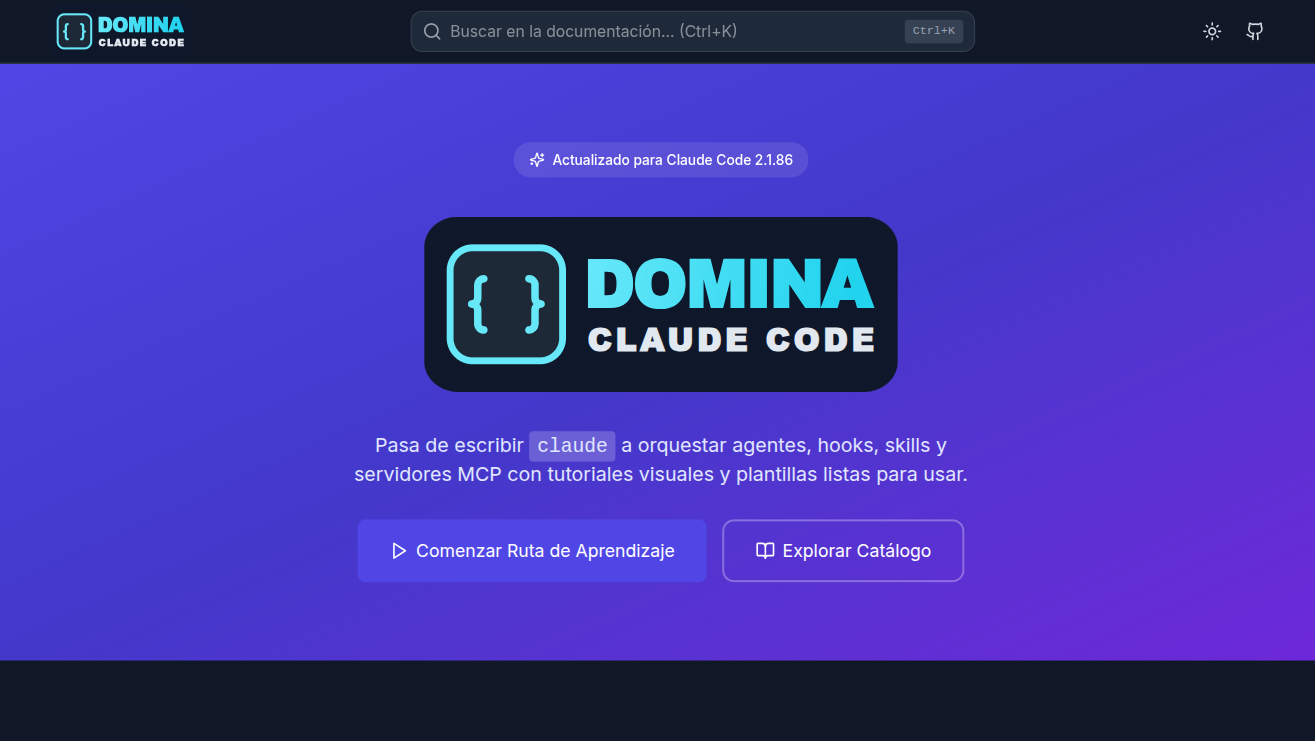
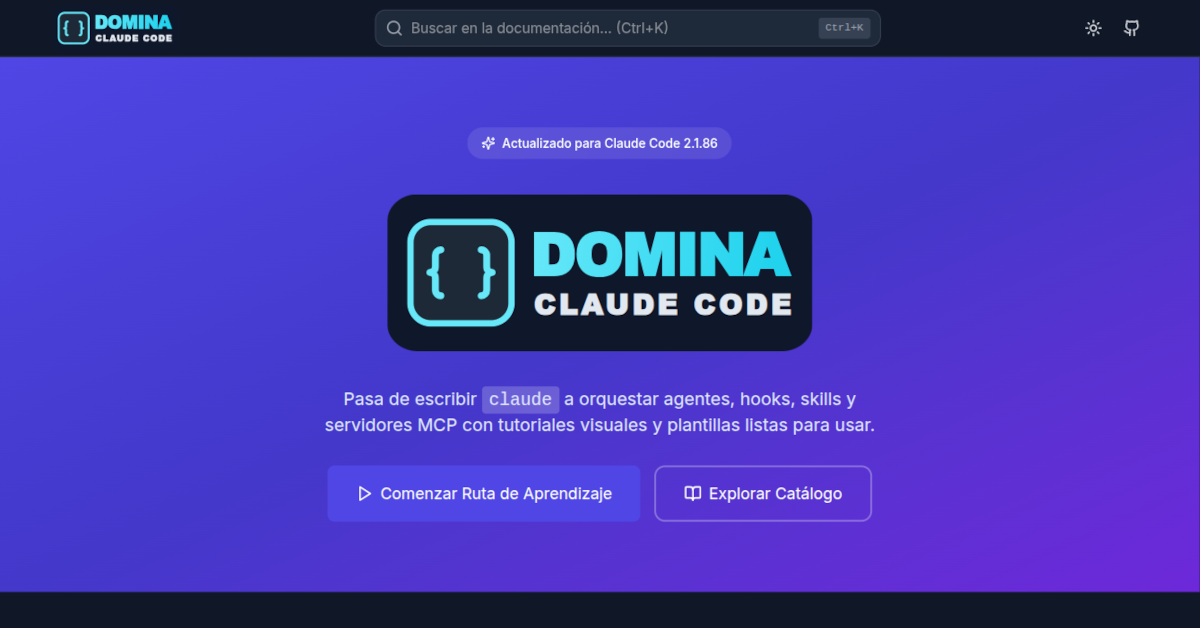
Fix meta tags y domina.png

diff --git a/index.html b/index.html
@@ -13,10 +13,11 @@
     <meta property="og:title" content="Domina Claude Code" />
     <meta property="og:description" content="Guía completa con tutoriales visuales, plantillas y ruta de aprendizaje guiada" />
     <meta property="og:image" content="https://domina-claude-code.netlify.app/domina.png" />
-    <meta property="og:image:width" content="1315" />
-    <meta property="og:image:height" content="741" />
+    <meta property="og:image:width" content="1200" />
+    <meta property="og:image:height" content="628" />
     <meta property="og:image:alt" content="Domina Claude Code" />
     <meta property="og:locale" content="es_ES" />
+    <meta property="og:url" content="https://domina-claude-code.netlify.app/" />
 
     <!-- Twitter / X Cards -->
     <meta name="twitter:card" content="summary_large_image" />
@@ -24,7 +25,8 @@
     <meta name="twitter:description" content="Guía completa con tutoriales visuales, plantillas y ruta de aprendizaje guiada" />
     <meta name="twitter:image" content="https://domina-claude-code.netlify.app/domina.png" />
     <meta name="twitter:image:alt" content="Domina Claude Code" />
-    
+    <meta name="twitter:site" content="@drfcozapata" />
+
     <!-- Fonts -->
     <link rel="preconnect" href="https://fonts.googleapis.com">
     <link rel="preconnect" href="https://fonts.gstatic.com" crossorigin>
